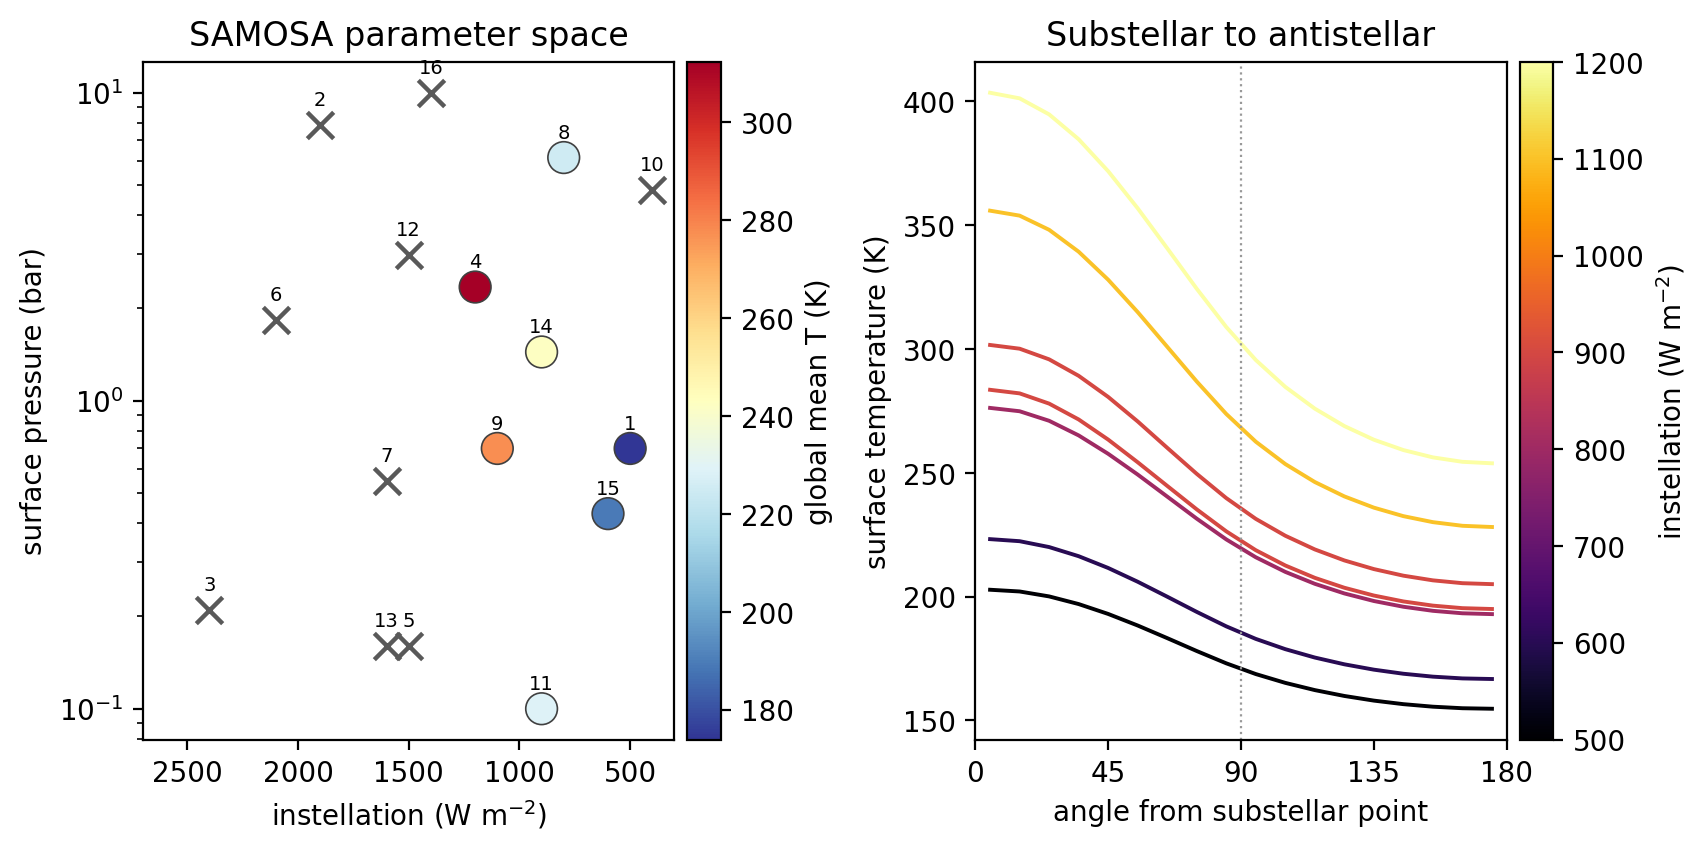
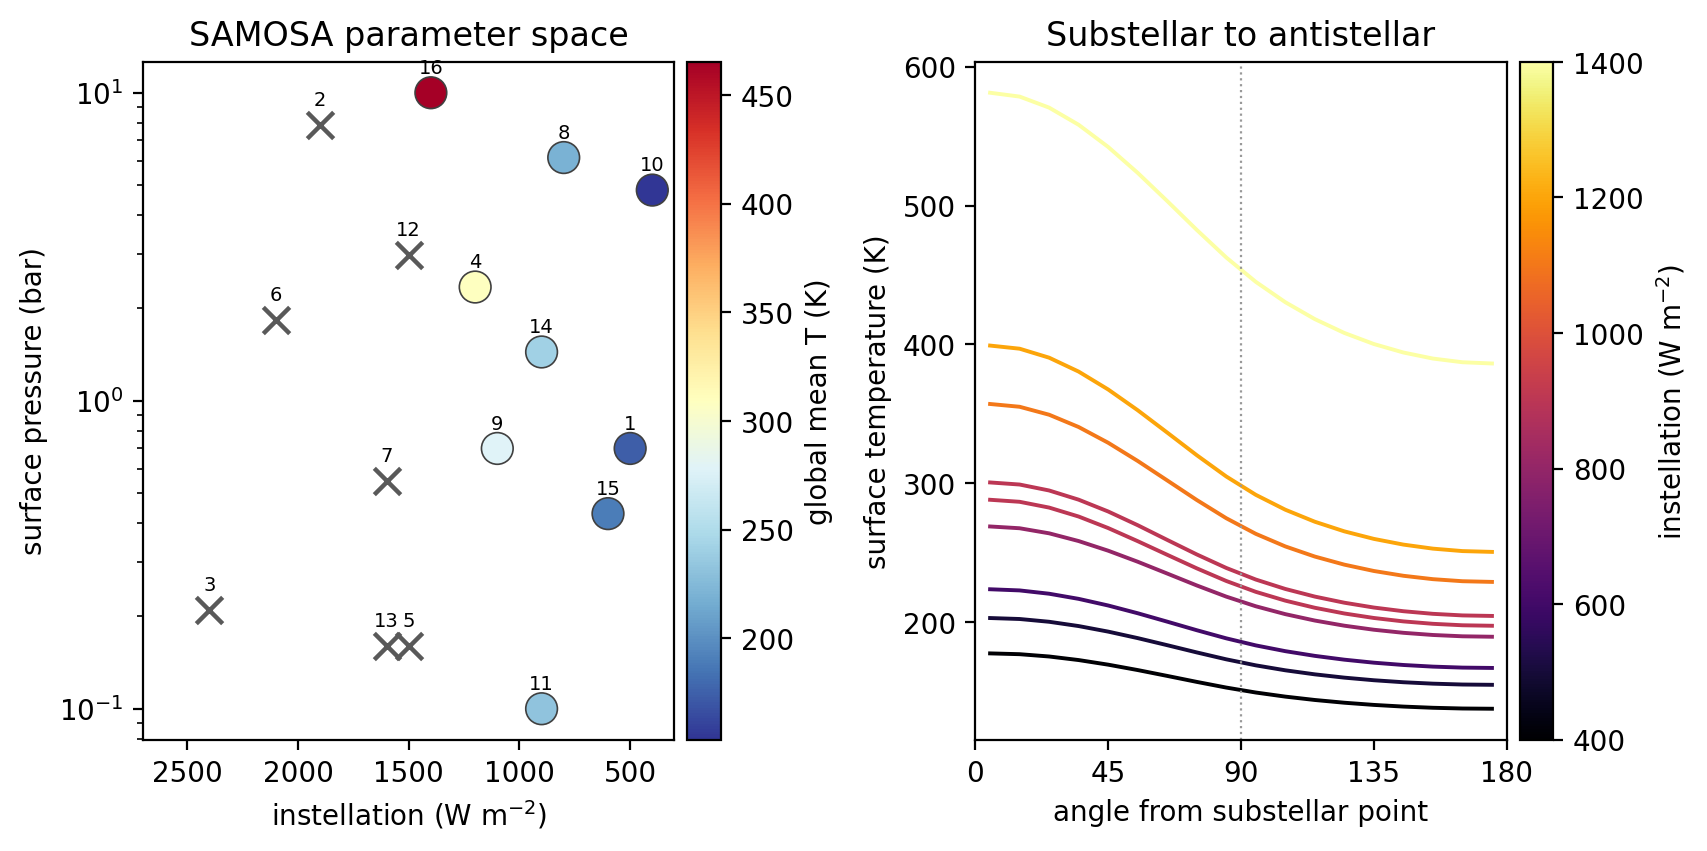
Prescribe SAMOSA CO2 as a 400 ubar partial pressure
The 2024 erratum to the SAMOSA protocol fixes CO2 at a partial pressure of
400 ubar, so the CO2 column is the same in every case and its mixing ratio
falls as the N2 pressure rises. The template instead held fco2 = 4e-4, a
400 ppm mixing ratio, which gave 2.5 mbar of CO2 at 6.16 bar and 40 ubar at
0.10 bar. ExoColumn's submission follows the erratum, so the two models were
not running the same atmosphere.

run_samosa.py now sets pg0 = pN2 + 4e-4 bar and fco2 = 4e-4 / pg0 per case,
the template takes fco2 as a placeholder, and effective_D takes the N2 and
CO2 partial pressures directly. samosa_submit.py states the convention in
the output header.

Rerun with the submitted configuration (D = 3.33, cloudir = -45): Cases 4,
8 and 11 move by 3-5 K and the rest by 1 K or less. Case 10, previously lost
to CO2 condensation, converges at 153.5 K, and Case 16, previously a runaway,
converges at 465.2 K with its day side on the OLR plateau; a 1500-year run
confirms it relaxes toward ~466 K rather than running away. Nine of the 16
cases are now reported.

Claude-Session: https://claude.ai/code/session_01Skv4eZKybiuhrKw7A6FHCf

diff --git a/tools/run_samosa.py b/tools/run_samosa.py
@@ -43,7 +43,14 @@ TEMPLATE = os.path.join(HEXTOR, 'namelists', 'input.nml.samosa')
 DRIVER = os.path.join(HEXTOR, 'model', 'driver')
 DEFAULT_TABLE = './radiation/radiation_N2_CO2_3000K_p.h5'
 
-# (sample, instellation [W/m2], surface pressure [bar]) from the protocol.
+# CO2 is a fixed PARTIAL PRESSURE of 400 ubar (Haqq-Misra et al. 2024
+# erratum), not a fixed 400 ppm mixing ratio: the CO2 column is the same in
+# every case and the mixing ratio falls as the N2 pressure rises.  HEXTOR's
+# pg0 is the dry surface pressure (pN2 + pCO2), so each case gets
+# pg0 = pN2 + P_CO2 and fco2 = P_CO2 / pg0.
+P_CO2 = 4.0e-4           # bar
+
+# (sample, instellation [W/m2], N2 pressure [bar]) from the protocol.
 # Table 1 = Sequence 1 (1-8) and Sequence 2 (9-16); Table 4 = Sequence 1b
 # (17-24), Sequence 2b (25-32) and Sequence 3 (33-64).
 CASES = [
@@ -94,16 +101,15 @@ TRANSPORT = {
 }
 
 
-def effective_D(d0_ref, ps, diffadj, rot_scaling, fco2=4.0e-4,
+def effective_D(d0_ref, pn2, diffadj, rot_scaling, pco2=P_CO2,
                 rot=4.84813681e-6, rot0=7.27e-5):
     """The diffusion coefficient the driver will end up using."""
     if not diffadj:
         return d0_ref
-    pco2 = ps * fco2
-    pn2 = ps - pco2
-    avemol = (28.0 * pn2 + 44.0 * pco2) / ps
-    hcp = (0.2484 * pn2 + 0.2105 * pco2) / ps
-    d = d0_ref * ps * (28.89 / avemol) ** 2 * (hcp / 0.2401)
+    pg0 = pn2 + pco2
+    avemol = (28.0 * pn2 + 44.0 * pco2) / pg0
+    hcp = (0.2484 * pn2 + 0.2105 * pco2) / pg0
+    d = d0_ref * pg0 * (28.89 / avemol) ** 2 * (hcp / 0.2401)
     if rot_scaling:
         d *= (rot0 / rot) ** 2
     return d
@@ -222,8 +228,8 @@ def parse_scalars(rundir, stdout=''):
                 out['icelineS'] = ffloat(p[1])
                 out['icelineN'] = ffloat(p[2])
     # Fraction of belts with CO2 condensing at the surface.  SAMOSA's cold
-    # corner reaches this: at 4.83 bar with 400 ppm CO2 the partial pressure is
-    # under 2 mbar, and HEXTOR then pins the surface to the CO2 frost point.
+    # corner can reach this: with only 400 ubar of CO2 a cold enough surface
+    # drops below the frost point, and HEXTOR then pins it there.
     # That is a distinct climate regime, not an equilibrium and not a runaway,
     # and it needs its own label.
     cc = os.path.join(rundir, 'out', 'co2clouds.out')
@@ -278,9 +284,12 @@ def run_case(task):
     d0 = d0_ref
     D = effective_D(d0_ref, ps, diffadj, rot_scaling)
     dt = stable_dt(D)
+    pg0 = ps + P_CO2
+    fco2 = P_CO2 / pg0
 
     nml = open(TEMPLATE).read().format(
-        tempinit='%.1f' % init_t, d0='%.6f' % d0, pg0='%.5f' % ps,
+        tempinit='%.1f' % init_t, d0='%.6f' % d0, pg0='%.5f' % pg0,
+        fco2='%.6e' % fco2,
         solarcon='%.1f' % inst, cloudir='%.2f' % cloudir, radfile=table,
         diffadj='.true.' if diffadj else '.false.',
         diffadj_rot='.true.' if rot_scaling else '.false.',
@@ -300,7 +309,8 @@ def run_case(task):
         rc, err = -1, 'timeout'
 
     rec = {'case': sample, 'init': init_name, 'instellation': inst,
-           'ps_bar': ps, 'd0': d0, 'cloudir': cloudir, 'diffadj': diffadj,
+           'ps_bar': ps, 'fco2': fco2, 'd0': d0, 'cloudir': cloudir,
+           'diffadj': diffadj,
            'rot_scaling': rot_scaling, 'D': D, 'dt': dt,
            'rc': rc, 'error': err, 'wall_s': round(time.time() - t0, 1)}
     rec.update(parse_scalars(rundir, stdout))
@@ -482,7 +492,7 @@ def main():
                   flush=True)
 
     results.sort(key=lambda r: (r['case'], r['init']))
-    cols = ['case', 'init', 'instellation', 'ps_bar', 'd0', 'cloudir',
+    cols = ['case', 'init', 'instellation', 'ps_bar', 'fco2', 'd0', 'cloudir',
             'T_global', 'T_min', 'T_max', 'OLR_global', 'ASR_global',
             'TOA_imbalance', 'dT_last', 'n_years', 'state', 'diffadj',
             'rot_scaling', 'D', 'dt', 'co2_condensing',

diff --git a/tools/samosa_submit.py b/tools/samosa_submit.py
@@ -132,7 +132,10 @@ def main():
         f.write('#   Radiative transfer by interpolation in lookup tables computed\n')
         f.write('#   with ExoColumn/ExoRT n68equiv for a 3000 K blackbody, indexed by\n')
         f.write('#   dry surface pressure, CO2 mixing ratio, surface temperature,\n')
-        f.write('#   zenith angle and surface albedo. Clear sky: HEXTOR has no\n')
+        f.write('#   zenith angle and surface albedo. CO2 is a fixed partial\n')
+        f.write('#   pressure of 400 ubar (2024 erratum), so the CO2 mixing ratio\n')
+        f.write('#   falls as the N2 pressure rises; Pres is the N2 pressure.\n')
+        f.write('#   Clear sky: HEXTOR has no\n')
         f.write('#   clouds, and no vertical dimension, water vapor or ice thickness,\n')
         f.write('#   so Qstrat, Qmass, Icethick, Cldliq, Cldice and Cldfrac are NaN.\n')
         if cfg is not None:

diff --git a/CLAUDE.md b/CLAUDE.md
@@ -68,7 +68,7 @@ Three validation scripts, each answering a question the table's accuracy depends
 
 **Re-calibrating after a table change** (`tools/calibrate_thai.py`): the published `(d0, cloudir) = (3.10, −35.0)` was fitted against the old 1 bar 2600 K table, so part of that −35 W/m² compensates for that table rather than for clouds. Re-running the published procedure against a BT-Settl 2600 K table built with ExoRT gives `(3.33, −45.0)` and fits the THAI ensemble day-night contrast six times better (0.7 K error against 4.3 K). Consistency with a published calibration means re-running its *procedure*, not transplanting its constants onto different radiative transfer.
 
-**SAMOSA intercomparison**: `namelists/input.nml.samosa` is the protocol template (3000 K blackbody — the M-dwarf table `radiation_N2_CO2_3000K_p.h5`, not the Sun; 15 d synchronous, aquaplanet, 400 ppm CO2) and `tools/run_samosa.py` runs the case sequences, each in its own scratch directory:
+**SAMOSA intercomparison**: `namelists/input.nml.samosa` is the protocol template (3000 K blackbody — the M-dwarf table `radiation_N2_CO2_3000K_p.h5`, not the Sun; 15 d synchronous, aquaplanet, CO2 at a fixed 400 µbar partial pressure per the 2024 erratum — not 400 ppm, so `run_samosa.py` sets `pg0 = pN2 + 4e-4` and `fco2 = 4e-4/pg0` per case) and `tools/run_samosa.py` runs the case sequences, each in its own scratch directory:
 
 ```bash
 python tools/run_samosa.py --sequence all16 --d0-ref 3.10 --init both
